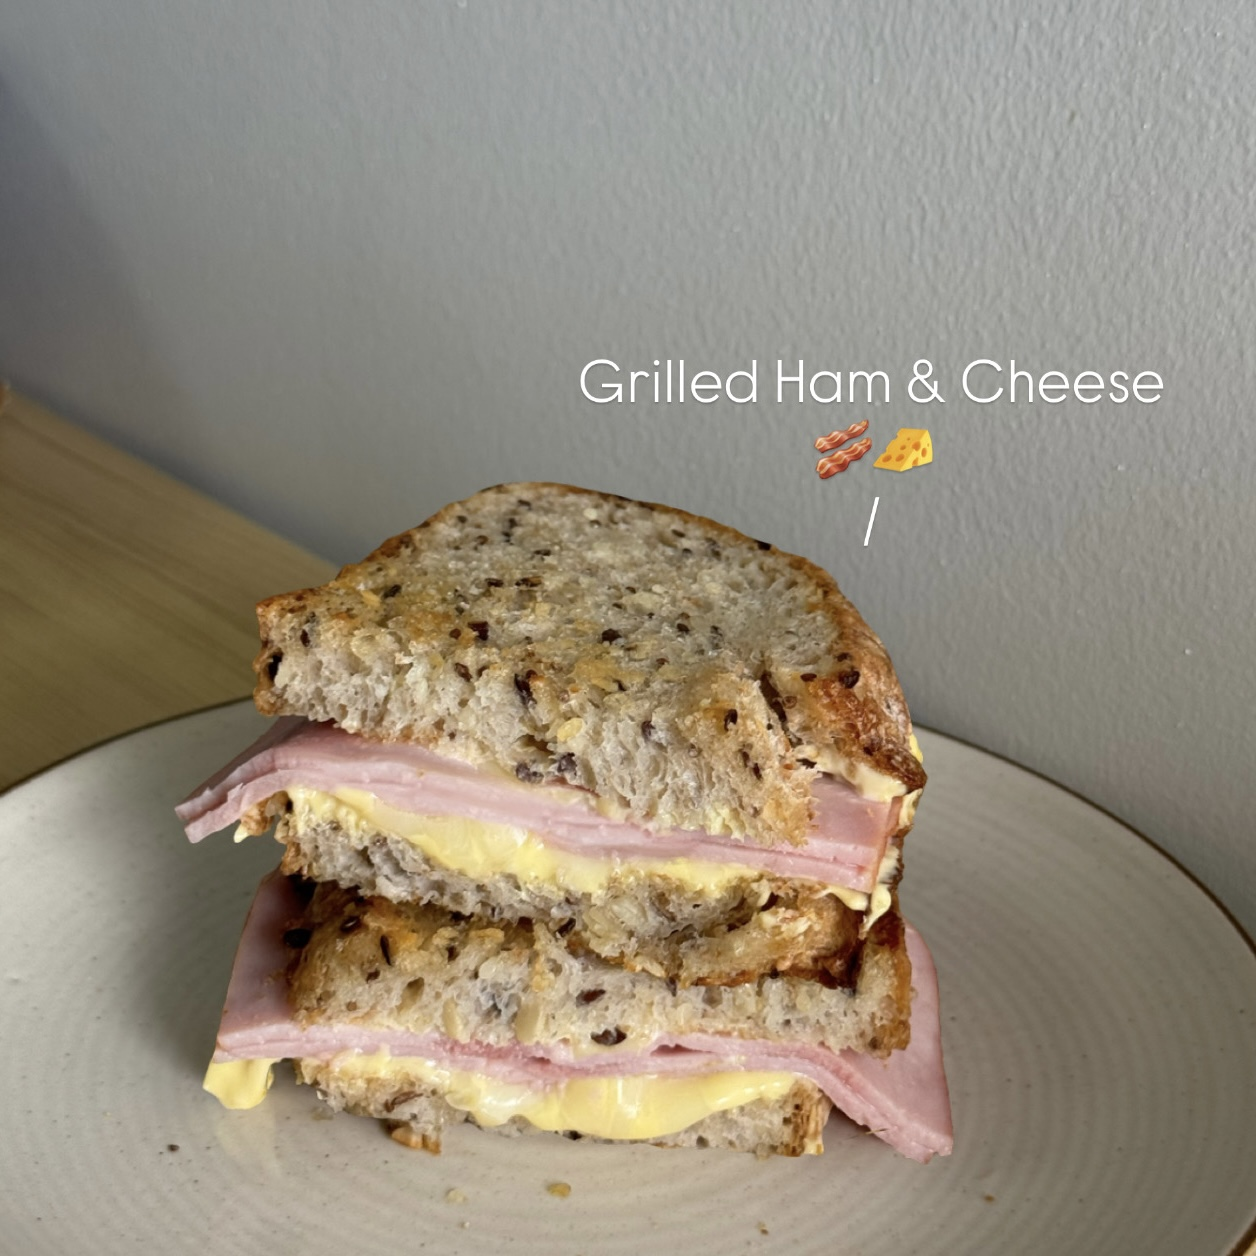
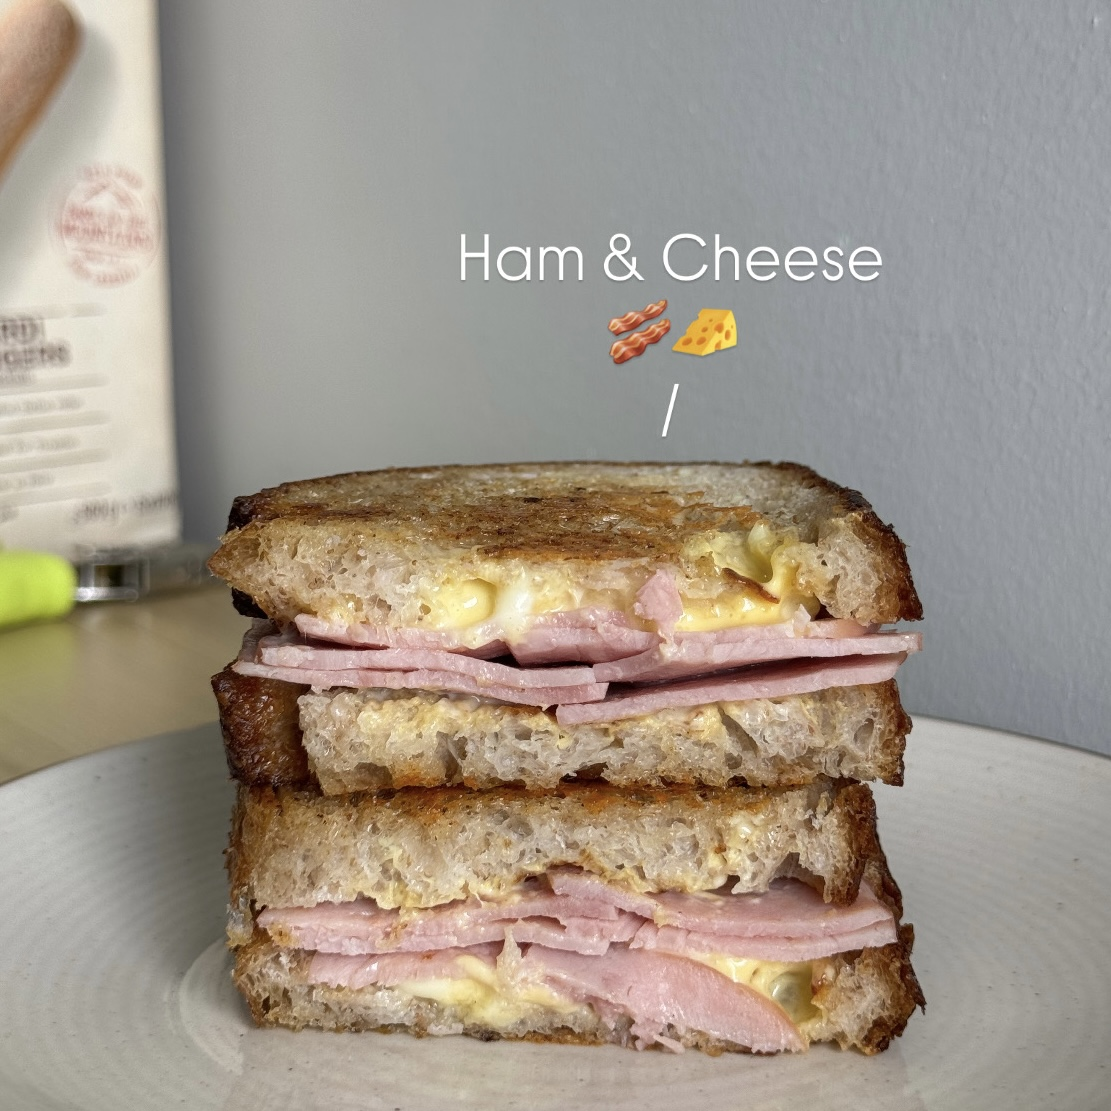
add truffle hame cheese + change 3 pics

diff --git a/public/index.html b/public/index.html
@@ -677,7 +677,7 @@
         croissants: { croissant: true, mixed_berry: true, pain_au_chocolat: true, biscoff: true, strawberry_nutella: true },
         tiramisus: { og: true, ferrero: true },
         sourdoughs: { country: true, cranberry: true, multigrain: true, darkrye: true, fig_walnut: true, olive_lemon: true, trio: true },
-        sandwiches: { avocado_shrimps: true, smoked_salmon: true, sunny_side_up: true, strawberry_blueberry: true, fig_berry_breeze: true, banana_berry: true, tuna_melt: true, ham_cheese: true, kimchi_tuna: true },
+        sandwiches: { avocado_shrimps: true, smoked_salmon: true, sunny_side_up: true, strawberry_blueberry: true, fig_berry_breeze: true, banana_berry: true, tuna_melt: true, ham_cheese: true, kimchi_tuna: true, truffle_ham: true },
         extras: { cream_cheese: true, cream_cheese_garlic: true, tuna_spread: true, mixed_berry_jam: true, apricot_jam: true },
         options: { country: true, supper: true, cream_cheese: true, nutella: true },
         closedDates: { pickup: [], delivery: [] },
@@ -908,6 +908,13 @@
     { id: 'extra_mozzarella', name: 'Extra Mozzarella', price: 15 }
   ];
 
+  const TRUFFLE_ADDONS = [
+    { id: 'extra_paris_ham', name: 'Extra Paris Ham', price: 20 },
+    { id: 'extra_cheddar', name: 'Extra Cheddar', price: 15 },
+    { id: 'extra_mozzarella', name: 'Extra Mozzarella', price: 15 },
+    { id: 'extra_truffle', name: 'Extra Truffle Paste', price: 15 }
+  ];
+
   const DUO_OPTIONS = [
     { id: 'avocado_shrimps', name: 'Avocado & Shrimp with Scrambled Egg', price: 170, supperPrice: 5 },
     { id: 'smoked_salmon', name: 'Smoked Salmon', price: 170, supperPrice: 5 },
@@ -938,7 +945,8 @@
   const GRILLED_SANDWICHES = [
     { id: 'tuna_melt', name: 'Grilled Tuna Melt', label: 'Grilled Tuna Melt', price: 195, image: '/pic/tuna_melt.jpg', supperPrice: 10, addonList: TUNA_ADDONS },
     { id: 'ham_cheese', name: 'Grilled Ham & Cheese', label: 'Grilled Ham & Cheese', price: 175, image: '/pic/ham_and_cheese.jpg', supperPrice: 10, addonList: HAM_ADDONS },
-    { id: 'kimchi_tuna', name: 'Kimchi Tuna Melt', label: 'Kimchi Tuna Melt', price: 195, image: '/pic/kimchi_tuna_melt.jpg', supperPrice: 10, addonList: KIMCHI_ADDONS }
+    { id: 'kimchi_tuna', name: 'Kimchi Tuna Melt', label: 'Kimchi Tuna Melt', price: 195, image: '/pic/kimchi_tuna_melt.jpg', supperPrice: 10, addonList: KIMCHI_ADDONS },
+    { id: 'truffle_ham', name: 'Truffle Ham Cheese', label: 'Truffle Ham Cheese', price: 205, image: '/pic/truffle_ham_cheese.png', supperPrice: 10, addonList: TRUFFLE_ADDONS }
   ];
 
   let SUPPER_UPGRADE_PRICE = 5;
@@ -2574,10 +2582,11 @@
       banana_berry: 'Banana Berry Peanut Butter',
       tuna_melt: 'Grilled Tuna Melt',
       ham_cheese: 'Grilled Ham & Cheese',
-      kimchi_tuna: 'Kimchi Tuna Melt'
+      kimchi_tuna: 'Kimchi Tuna Melt',
+      truffle_ham: 'Truffle Ham Cheese'
     };
     if (!shopConfig.sandwiches) {
-      shopConfig.sandwiches = { avocado_shrimps: true, smoked_salmon: true, sunny_side_up: true, strawberry_blueberry: true, fig_berry_breeze: true, banana_berry: true, tuna_melt: true, ham_cheese: true, kimchi_tuna: true };
+      shopConfig.sandwiches = { avocado_shrimps: true, smoked_salmon: true, sunny_side_up: true, strawberry_blueberry: true, fig_berry_breeze: true, banana_berry: true, tuna_melt: true, ham_cheese: true, kimchi_tuna: true, truffle_ham: true };
     }
     let sandwichHtml = '';
     for (const [id, name] of Object.entries(sandwichNames)) {

diff --git a/api/config.js b/api/config.js
@@ -19,7 +19,7 @@ const DEFAULT_CONFIG = {
   croissants: { croissant: true, mixed_berry: true, pain_au_chocolat: true, biscoff: true, strawberry_nutella: true },
   tiramisus: { og: true, ferrero: true },
   sourdoughs: { country: true, cranberry: true, multigrain: true, darkrye: true, fig_walnut: true, olive_lemon: true, trio: true },
-  sandwiches: { avocado_shrimps: true, smoked_salmon: true, sunny_side_up: true, strawberry_blueberry: true, fig_berry_breeze: true, banana_berry: true, tuna_melt: true, ham_cheese: true, kimchi_tuna: true },
+  sandwiches: { avocado_shrimps: true, smoked_salmon: true, sunny_side_up: true, strawberry_blueberry: true, fig_berry_breeze: true, banana_berry: true, tuna_melt: true, ham_cheese: true, kimchi_tuna: true, truffle_ham: true },
   extras: { cream_cheese: true, cream_cheese_garlic: true, tuna_spread: true, mixed_berry_jam: true, apricot_jam: true },
   options: { country: true, supper: true, cream_cheese: true, nutella: true },
   prices: {},
